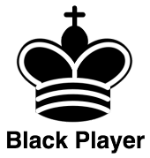
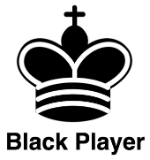
tweaked styling

diff --git a/app/assets/stylesheets/master.scss b/app/assets/stylesheets/master.scss
@@ -183,7 +183,7 @@ img.about-image {
 }
 
 .player-button {
-  align-items: bottom;
+  align-items: center;
   margin: 0px 50px;
 }
 
